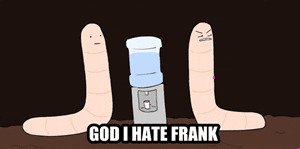
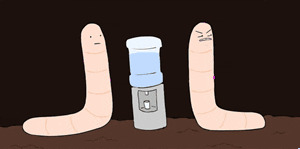
Derp.

Changed region(s): [[0.27, 0.8054, 0.75, 0.9664], [0.99, 0.9933, 1.0, 1.0]]

diff --git a/imageprep/imageprep.go b/imageprep/imageprep.go
@@ -42,11 +42,15 @@ func ImagePrep(name string) {
 		if err := dc.LoadFontFace("resources/Cocktail.ttf", 20); err != nil {
 			panic(err)
 		}
-
 		dc.DrawRoundedRectangle(0, 0, X, Y, 0)
 		dc.DrawImage(im, 0, 0)
-		dc.DrawStringAnchored(strings.ToUpper(name), 199, 133, 0.5, 0.5)
-		dc.Clip()
+		switch {
+		case i > 1 && i < 13:
+			text := fmt.Sprintf("GOD I HATE %s", name)
+			dc.DrawStringAnchored(strings.ToUpper(text), 150, 139, 0.5, 0.5)
+			dc.Clip()
+		}
+
 		dc.SavePNG(fmt.Sprintf("resources/outputframes/%s", frame))
 	}
 }
